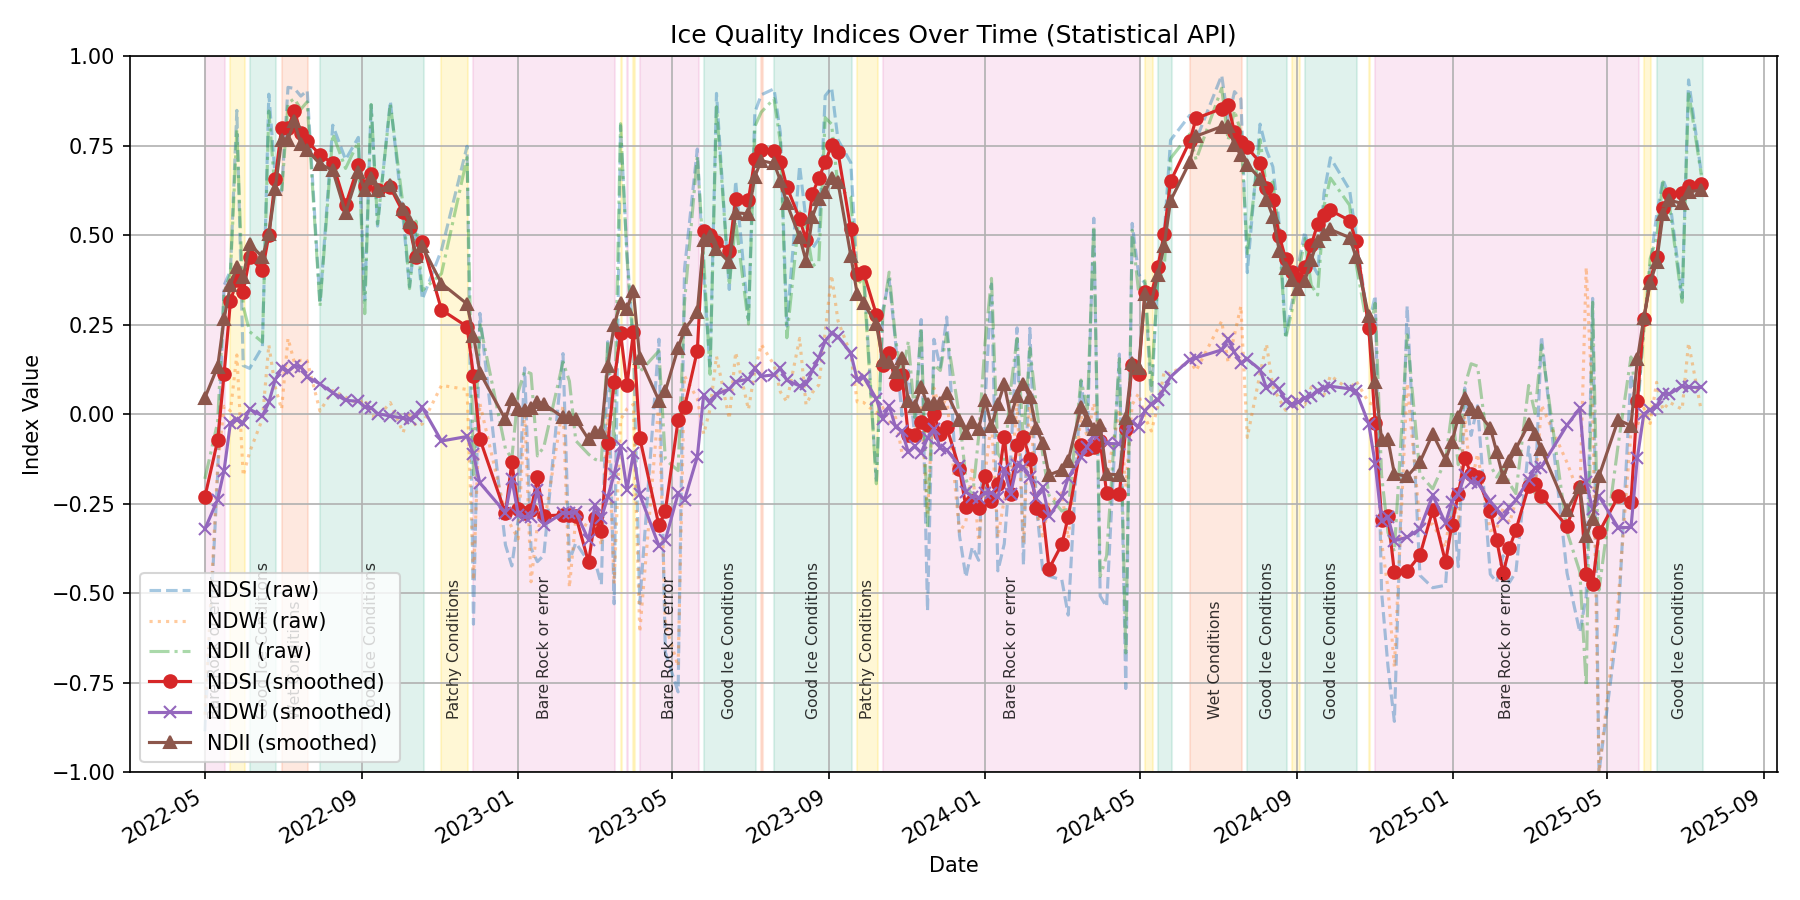
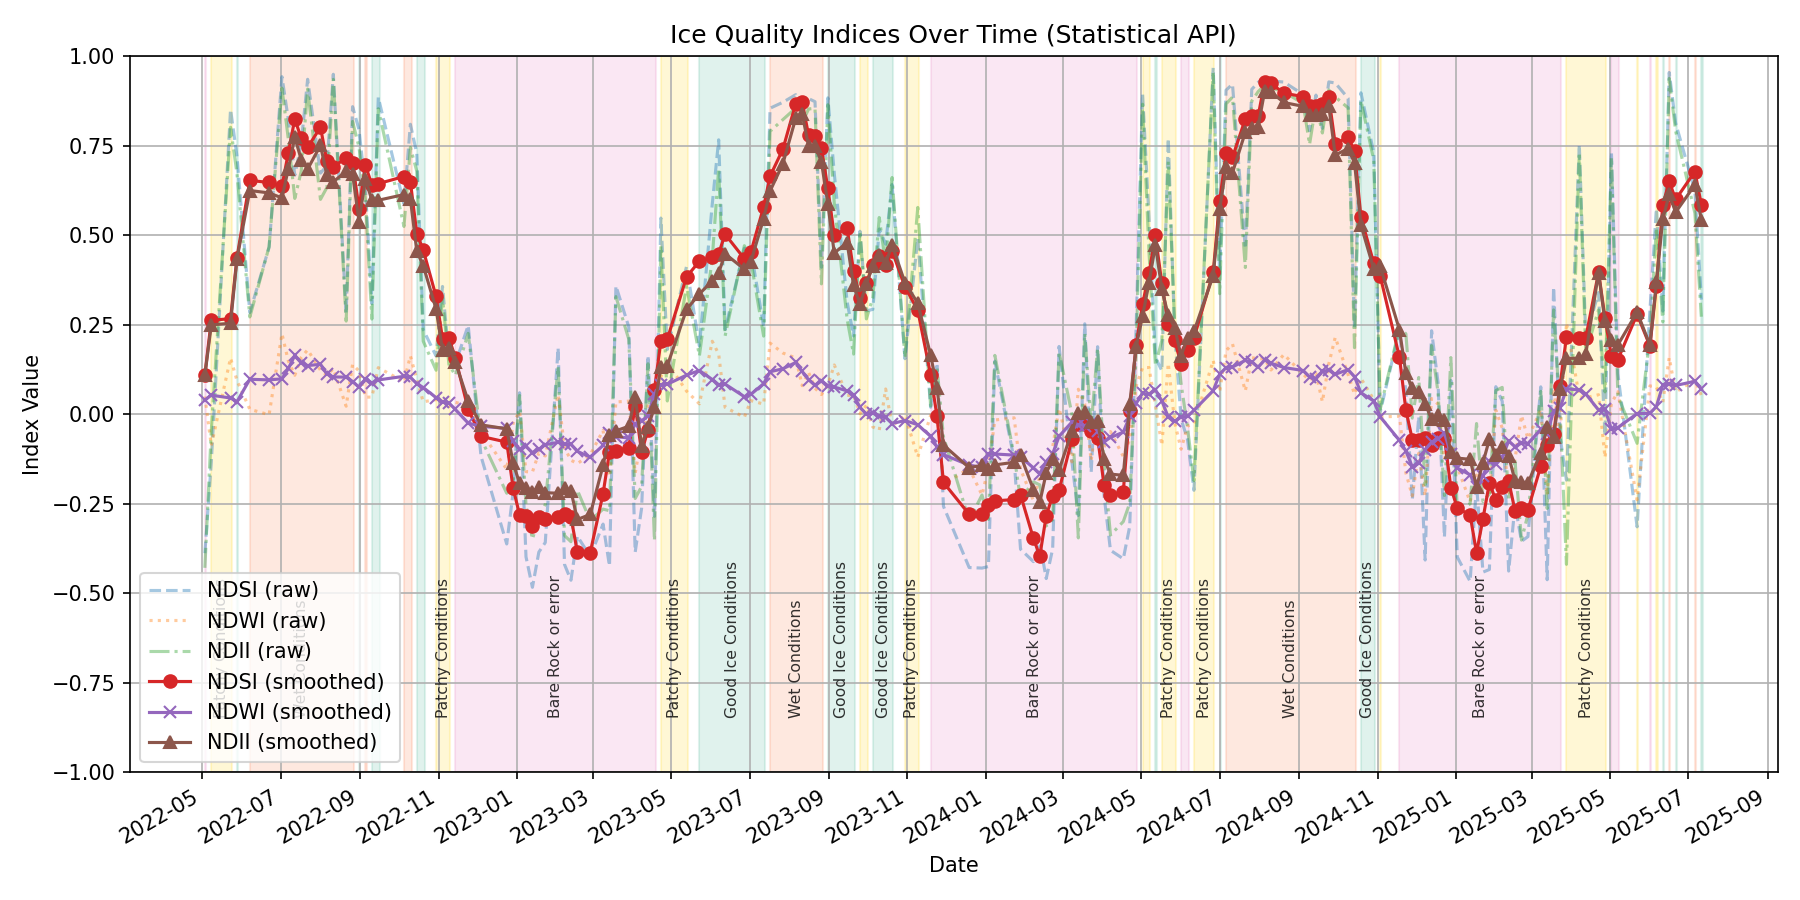
Minor changes, need to sort out the spectral analysis pipeline to prevent re-runs, also need to work on dbt models for d for determining thresholds for spectral values per location and merge spectral data with weather data for modelling

diff --git a/pipelines/Spectral_Analysis.py b/pipelines/Spectral_Analysis.py
@@ -3,8 +3,7 @@ import logging
 from dotenv import load_dotenv
 from dlt.sources.helpers import requests
 from os import getenv
-import json
-import datetime
+import math
 import pandas as pd
 from project_path import get_project_paths, set_dlt_env_vars
 
@@ -31,13 +30,14 @@ if not SENTINEL_CLIENT_SECRET:
 
 LOCATIONS = [
     {"name": "Wye Creek", "lat": -45.087551, "lon": 168.810442},
-    {"name": "SE Face Mount Ward", "lat": -43.867239, "lon": 169.833754}
+    {"name": "SE Face Mount Ward", "lat": -43.867239, "lon": 169.833754},
+    {"name": "Island Gully", "lat": -42.137246, "lon": 172.728013}
 ]
 # 12m buffer around each point
 EPSILON = 0.00018
 
 START_DATE = "2022-05-01"
-END_DATE = "2025-07-15"
+END_DATE = "2025-07-16"
 
 def get_access_token():
     url = "https://services.sentinel-hub.com/oauth/token"
@@ -49,6 +49,59 @@ def get_access_token():
     response = requests.post(url, data=payload)
     response.raise_for_status()
     return response.json()["access_token"]
+
+
+def get_elevation(lat, lon):
+    url = "https://api.open-elevation.com/api/v1/lookup"
+    params = {"locations": f"{lat},{lon}"}
+    try:
+        resp = requests.get(url, params=params)
+        resp.raise_for_status()
+        return resp.json()["results"][0]["elevation"]
+    except Exception as e:
+        logging.warning(f"Failed to fetch elevation for {lat}, {lon}: {e}")
+        return None
+
+def get_site_elevation_and_slope(lat, lon, epsilon=0.00018):
+    """
+    Fetches the elevation at the center, N, S, E, W, and calculates mean elevation and local slope (max difference / distance).
+    """
+    # Define sample points
+    center = (lat, lon)
+    north = (lat + epsilon, lon)
+    south = (lat - epsilon, lon)
+    east = (lat, lon + epsilon)
+    west = (lat, lon - epsilon)
+    points = [center, north, south, east, west]
+    elevations = []
+    for pt in points:
+        elevations.append(get_elevation(pt[0], pt[1]))
+    # Remove any Nones (failed lookups)
+    elevations = [e for e in elevations if e is not None]
+    if not elevations:
+        return None, None
+    mean_elev = sum(elevations) / len(elevations)
+    # Slope: max diff between center and other points, divided by distance (in meters)
+    center_elev = elevations[0]
+    max_slope = 0
+    for pt, elev in zip(points[1:], elevations[1:]):
+        # Approximate distance in meters
+        dist = haversine_distance(center, pt)
+        if dist > 0:
+            slope = abs(center_elev - elev) / dist
+            max_slope = max(max_slope, slope)
+    return mean_elev, max_slope
+
+def haversine_distance(coord1, coord2):
+    # Returns distance in meters between two (lat, lon) points
+    R = 6371000  # radius of Earth in meters
+    phi1, phi2 = math.radians(coord1[0]), math.radians(coord2[0])
+    d_phi = math.radians(coord2[0] - coord1[0])
+    d_lambda = math.radians(coord2[1] - coord1[1])
+    a = math.sin(d_phi/2)**2 + math.cos(phi1)*math.cos(phi2)*math.sin(d_lambda/2)**2
+    c = 2 * math.atan2(math.sqrt(a), math.sqrt(1 - a))
+    return R * c
+
 
 def fetch_stats_ndsi(access_token, bbox, start_date, end_date, logger):
     url = "https://services.sentinel-hub.com/api/v1/statistics"
@@ -107,7 +160,7 @@ function evaluatePixel(sample) {
                 "from": f"{start_date}T00:00:00Z",
                 "to": f"{end_date}T23:59:59Z"
             },
-            "aggregationInterval": { "of": "P1D" },
+            "aggregationInterval": {"of": "P1D"},
             "evalscript": evalscript,
             "resx": 10,
             "resy": 10,
@@ -165,7 +218,7 @@ def classify_ice_point(ndsi, ndwi, ndii):
         return "Bare Rock or error"
 
 
-def process_and_store(data, location):
+def process_and_store(data, location, elev, slope):
     rows = []
     for t in data["data"]:
         d = t["interval"]["from"][:10]
@@ -184,9 +237,10 @@ def process_and_store(data, location):
     df["ndsi_smooth"] = df["ndsi"].rolling(window=5, center=True, min_periods=1).mean()
     df["ndwi_smooth"] = df["ndwi"].rolling(window=5, center=True, min_periods=1).mean()
     df["ndii_smooth"] = df["ndii"].rolling(window=5, center=True, min_periods=1).mean()
-    df["label"] = df.apply(lambda row: classify_ice_point(row["ndsi_smooth"], row["ndwi_smooth"], row["ndii_smooth"]), axis=1)
+    df["Elevation"] = elev
+    df["Slope"] = slope
     
-    return df.to_dict(orient="records")
+    return df.to_dict(orient="records") 
 
 
 @dlt.source
@@ -195,9 +249,10 @@ def sentinel_source(logger: logging.Logger, token: str, start_date: str, end_dat
                   primary_key=["location", "date"])
     def ice_indices_resource():
         for loc in LOCATIONS:
+            elev, slope = get_site_elevation_and_slope(loc["lat"], loc["lon"], EPSILON)
             BBOX = [loc["lon"] - EPSILON, loc["lat"] - EPSILON, loc["lon"] + EPSILON, loc["lat"] + EPSILON]
             raw = fetch_stats_ndsi(token, BBOX, start_date, end_date, logger)
-            yield from process_and_store(raw, loc["name"])
+            yield from process_and_store(raw, loc["name"], elev, slope)
     return ice_indices_resource
 
 

diff --git a/scripts/sentinel_visual.py b/scripts/sentinel_visual.py
@@ -7,6 +7,7 @@ import matplotlib.pyplot as plt
 import datetime
 from itertools import groupby
 from operator import itemgetter
+import matplotlib.dates as mdates
 
 # Load environment variables and set DLT config
 paths = get_project_paths()
@@ -39,9 +40,9 @@ df = con.execute("""
 """).df()
 
 def classify_ice_point(ndsi, ndwi, ndii):
-    if ndsi > 0.40 and ndii < 0.70 and ndwi < 0.25:
+    if ndsi > 0.40 and ndii < 0.60 and ndwi < 0.20:
         return "Good Ice Conditions"
-    elif ndsi > 0.40 and (ndii >= 0.70 or ndwi >= 0.25):
+    elif ndsi > 0.40 and (ndii >= 0.60 or ndwi >= 0.20):
         return "Wet Conditions"
     elif 0.20 < ndsi <= 0.40:
         return "Patchy Conditions"
@@ -50,7 +51,7 @@ def classify_ice_point(ndsi, ndwi, ndii):
     else:
         return "Bare Rock or error"
 
-df = df[df["location"] == "Wye Creek"]
+df = df[df["location"] == "Island Gully"]
 df["date"] = pd.to_datetime(df["date"])
 df = df.reset_index(drop=True)  # for groupby processing
 df["label"] = df.apply(
@@ -76,7 +77,7 @@ for label, group in groupby(enumerate(df["label"]), key=itemgetter(1)):
 
     ax.axvspan(start, end, color=label_colors.get(label, "#ffffff"), alpha=0.2)
 
-    if duration >= 14:
+    if duration >= 10:
         midpoint = start + (end - start) / 2
         ax.text(midpoint, -0.85, label, fontsize=7.5, ha="center", va="bottom", rotation=90, alpha=0.8)
 
@@ -90,6 +91,8 @@ ax.plot(df.index, df["ndii"], label="NDII (raw)", linestyle="-.", alpha=0.4)
 ax.plot(df.index, df["ndsi_smooth"], label="NDSI (smoothed)", marker="o")
 ax.plot(df.index, df["ndwi_smooth"], label="NDWI (smoothed)", marker="x")
 ax.plot(df.index, df["ndii_smooth"], label="NDII (smoothed)", marker="^")
+
+ax.xaxis.set_major_locator(mdates.AutoDateLocator(minticks=14, maxticks=40))
 
 # Final formatting
 ax.set_title("Ice Quality Indices Over Time (Statistical API)")

diff --git a/pipelines/GeoAPI.py b/pipelines/GeoAPI.py
@@ -168,29 +168,24 @@ def run_pipeline(logger) -> bool:
         pipelines_dir=str(DLT_PIPELINE_DIR),
         dev_mode=False
     )
-    row_counts = None
+    row_counts_dict = {}
     try:
         dataset = pipeline.dataset()["geo_cities"].df()
         if dataset is not None:
             row_counts = dataset.groupby(
                 "country_code").size().reset_index(name="count")
+            row_counts_dict = dict(
+                zip(row_counts["country_code"], row_counts["count"]))
             logger.info(f"Grouped Row Counts:\n{row_counts}")
     except PipelineNeverRan:
         logger.warning(
             "⚠ No previous runs found for this pipeline. Assuming first run.")
-        row_counts = None
+        row_counts_dict = {}
     except DatabaseUndefinedRelation:
         logger.warning(
             "⚠ Table Doesn't Exist. Assuming truncation.")
-        row_counts = None
- 
-    if row_counts is not None:
-        row_counts_dict = dict(
-            zip(row_counts["country_code"], row_counts["count"]))
-    else:
-        logger.warning(
-            "⚠ No tables found yet in dataset — assuming first run.")
         row_counts_dict = {}
+ 
 
     source = geo_source(logger, row_counts_dict)
 
